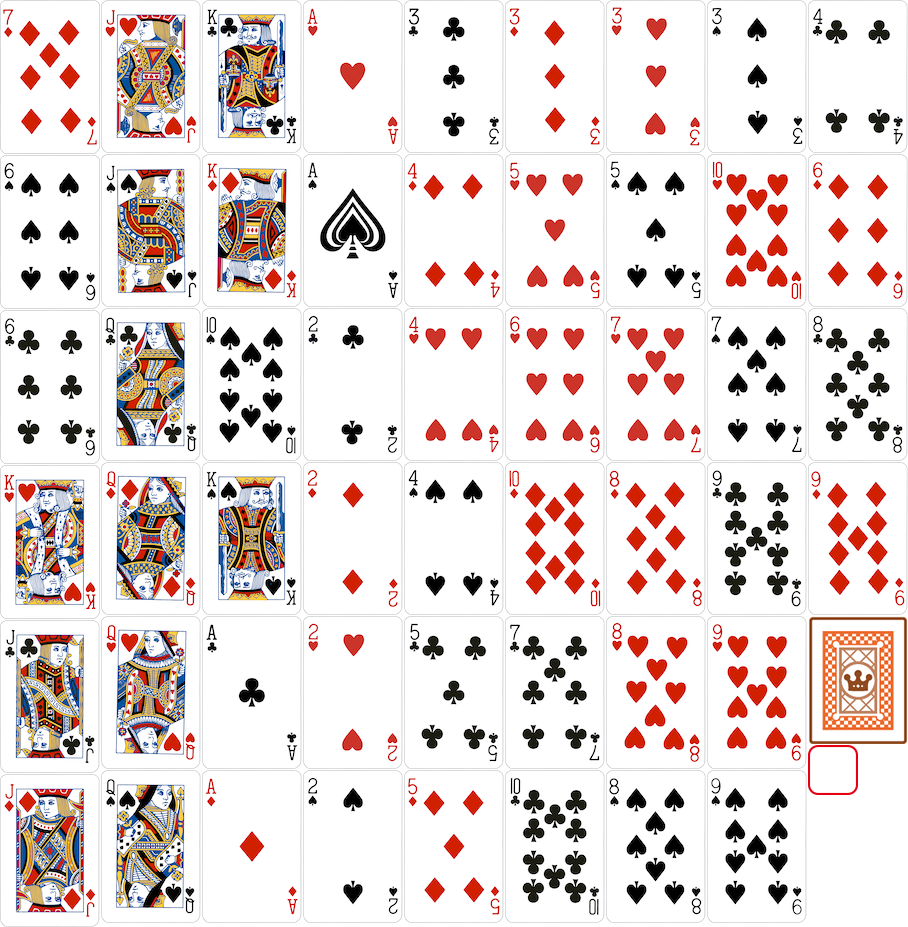
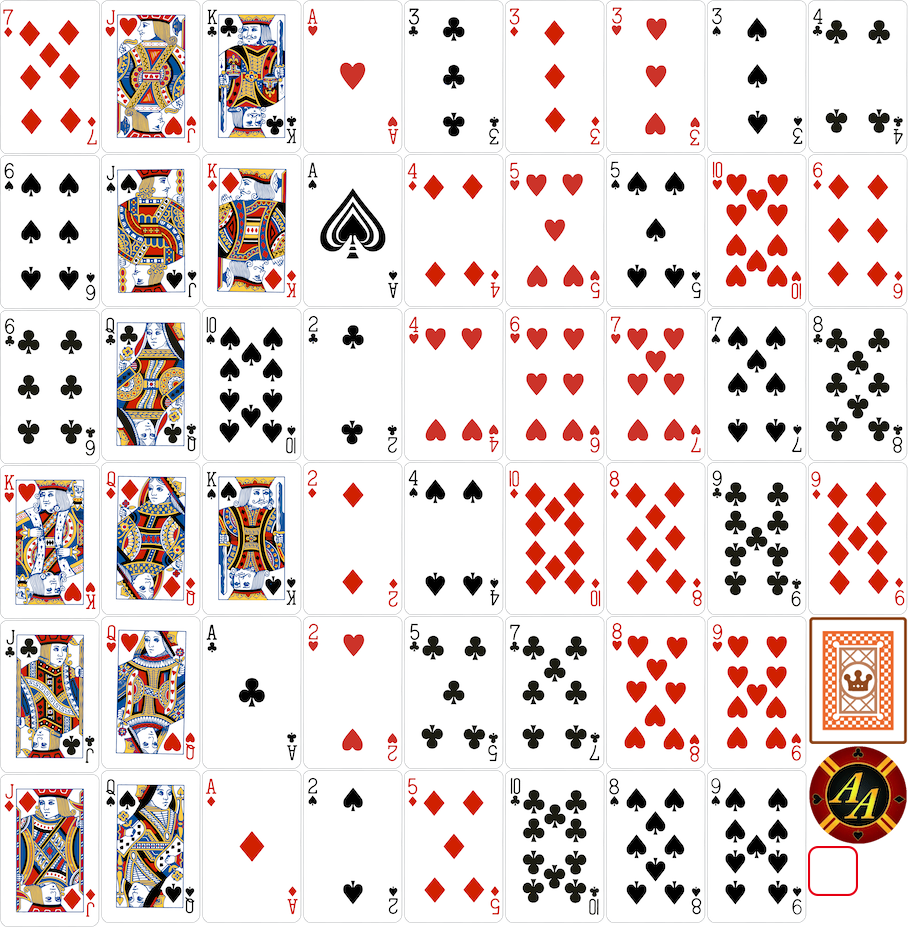
大盲和小盲

Changed region(s): [[0.8943, 0.7853, 1.0, 0.9666]]

diff --git a/bin/js/bundle.js b/bin/js/bundle.js
@@ -144,7 +144,7 @@ var Main = function () {
 new Main();
 
 },{"./GameConfig":1,"./util/WebSocket":4}],3:[function(require,module,exports){
-"use strict";
+'use strict';
 
 Object.defineProperty(exports, "__esModule", {
     value: true
@@ -171,21 +171,21 @@ var Poker = function () {
 
 
     _createClass(Poker, [{
-        key: "reset",
+        key: 'reset',
         value: function reset() {}
         // 隐藏
 
     }, {
-        key: "hide",
+        key: 'hide',
         value: function hide() {
             this.pokerImg.visible = false;
         }
         // 发牌
 
     }, {
-        key: "send",
+        key: 'send',
         value: function send(pokerSentIndex) {
-            this.isMe = this.seatImg.y == 608 ? true : false;
+            this.isMe = this.seatImg.name == 'seat0' ? true : false;
             var x = this.seatImg.x;
             if (this.isMe) {
                 pokerSentIndex == 0 ? x += 50 : x += 100;
@@ -195,35 +195,35 @@ var Poker = function () {
         // 手牌发牌完成
 
     }, {
-        key: "sendComplete",
+        key: 'sendComplete',
         value: function sendComplete() {
             if (!this.isMe) {
                 this.pokerImg.visible = false;
             } else {
-                this.pokerImg.skin = "ui/" + this.dataPoker.card + ".png";
+                this.pokerImg.skin = 'ui/' + this.dataPoker.card + '.png';
             }
         }
         // 发公共牌
 
     }, {
-        key: "sendPublic",
+        key: 'sendPublic',
         value: function sendPublic(publicIndex) {
             var x = this.pokerImg.x;
             var y = this.pokerImg.y + 80;
             switch (publicIndex) {
                 case 0:
-                    x -= 120;
+                    x -= 110;
                     break;
                 case 1:
-                    x -= 60;
+                    x -= 55;
                     break;
                 case 2:
                     break;
                 case 3:
-                    x += 60;
+                    x += 55;
                     break;
                 case 4:
-                    x += 120;
+                    x += 110;
                     break;
                 default:
                     break;
@@ -233,9 +233,9 @@ var Poker = function () {
         // 公牌发牌完成
 
     }, {
-        key: "sendPublicComplete",
+        key: 'sendPublicComplete',
         value: function sendPublicComplete() {
-            this.pokerImg.skin = "ui/" + this.dataPoker.card + ".png";
+            this.pokerImg.skin = 'ui/' + this.dataPoker.card + '.png';
         }
     }]);
 
@@ -351,11 +351,12 @@ var GameView = function (_Laya$Scene) {
 
         GameView.instance = _this;
         _this.seatCount = 9; // 座位数量    
-        _this.seats = []; // 座位数组            
+        _this.seats = []; // 座位数组           
         _this.pokers = []; // 扑克牌数组
         _this.pokerSentIndex = 0; // 已发牌索引
         _this.pokerHandCount = _this.seatCount * 2; // 手牌数量
         _this.pokerCount = _this.pokerHandCount + 5; // 所有牌数量
+        _this.chip2Index = 0; // 大盲位索引
         return _this;
     }
 
@@ -435,6 +436,20 @@ var GameView = function (_Laya$Scene) {
             if (this.pokerSentIndex >= this.pokerHandCount && this.pokerSentIndex < this.pokerCount) {
                 Laya.timer.loop(300, this, this.onShowPublicPoker);
             }
+            if (this.chip2Index >= this.seats.length) {
+                this.chip2Index = 0;
+            }
+            // 小盲移动到大盲位置
+            this.chip1.x = this.chip2.x;
+            this.chip1.y = this.chip2.y;
+            this.chipText1.x = this.chipText2.x;
+            this.chipText1.y = this.chipText2.y;
+            // 大盲顺时针移动
+            this.chip2.x = this.seats[this.chip2Index].x + 10;
+            this.chip2.y = this.seats[this.chip2Index].y - 30;
+            this.chipText2.x = this.chip2.x - 10;
+            this.chipText2.y = this.chip2.y - 15;
+            this.chip2Index++;
         }
 
         // 展开三张公牌
@@ -457,4 +472,4 @@ var GameView = function (_Laya$Scene) {
 exports.default = GameView;
 
 },{"../sprite/Poker":3,"../util/WebSocket":4}]},{},[2])
[2 lines of base64/hex data omitted]

diff --git a/src/view/GameView.js b/src/view/GameView.js
@@ -11,11 +11,12 @@ export default class GameView extends Laya.Scene {
         //设置单例的引用方式，方便其他类引用
         GameView.instance = this
         this.seatCount = 9                          // 座位数量    
-        this.seats = []                             // 座位数组            
+        this.seats = []                             // 座位数组           
         this.pokers = []                            // 扑克牌数组
         this.pokerSentIndex = 0                     // 已发牌索引
         this.pokerHandCount = this.seatCount * 2    // 手牌数量
         this.pokerCount = this.pokerHandCount + 5   // 所有牌数量
+        this.chip2Index = 0                         // 大盲位索引
     }
     onEnable() {
         // 初始化
@@ -75,6 +76,20 @@ export default class GameView extends Laya.Scene {
         if (this.pokerSentIndex >= this.pokerHandCount && this.pokerSentIndex < this.pokerCount) {
             Laya.timer.loop(300, this, this.onShowPublicPoker)
         }
+        if(this.chip2Index >= this.seats.length){
+            this.chip2Index = 0
+        }
+        // 小盲移动到大盲位置
+        this.chip1.x = this.chip2.x
+        this.chip1.y = this.chip2.y
+        this.chipText1.x = this.chipText2.x
+        this.chipText1.y = this.chipText2.y
+        // 大盲顺时针移动
+        this.chip2.x = this.seats[this.chip2Index].x + 10
+        this.chip2.y = this.seats[this.chip2Index].y - 30
+        this.chipText2.x = this.chip2.x - 10
+        this.chipText2.y = this.chip2.y - 15
+        this.chip2Index++
     }
 
     // 展开三张公牌

diff --git a/src/sprite/Poker.js b/src/sprite/Poker.js
@@ -18,7 +18,7 @@ export default class Poker {
     }
     // 发牌
     send(pokerSentIndex) {
-        this.isMe = this.seatImg.y == 608 ? true : false
+        this.isMe = this.seatImg.name == 'seat0' ? true : false
         let x = this.seatImg.x
         if (this.isMe) {
             pokerSentIndex == 0 ? x += 50 : x += 100
@@ -39,18 +39,18 @@ export default class Poker {
         let y = this.pokerImg.y + 80
         switch (publicIndex) {
             case 0:
-                x -= 120
+                x -= 110
                 break;
             case 1:
-                x -= 60
+                x -= 55
                 break;
             case 2:
                 break;
             case 3:
-                x += 60
+                x += 55
                 break;
             case 4:
-                x += 120
+                x += 110
                 break;
             default:
                 break;
